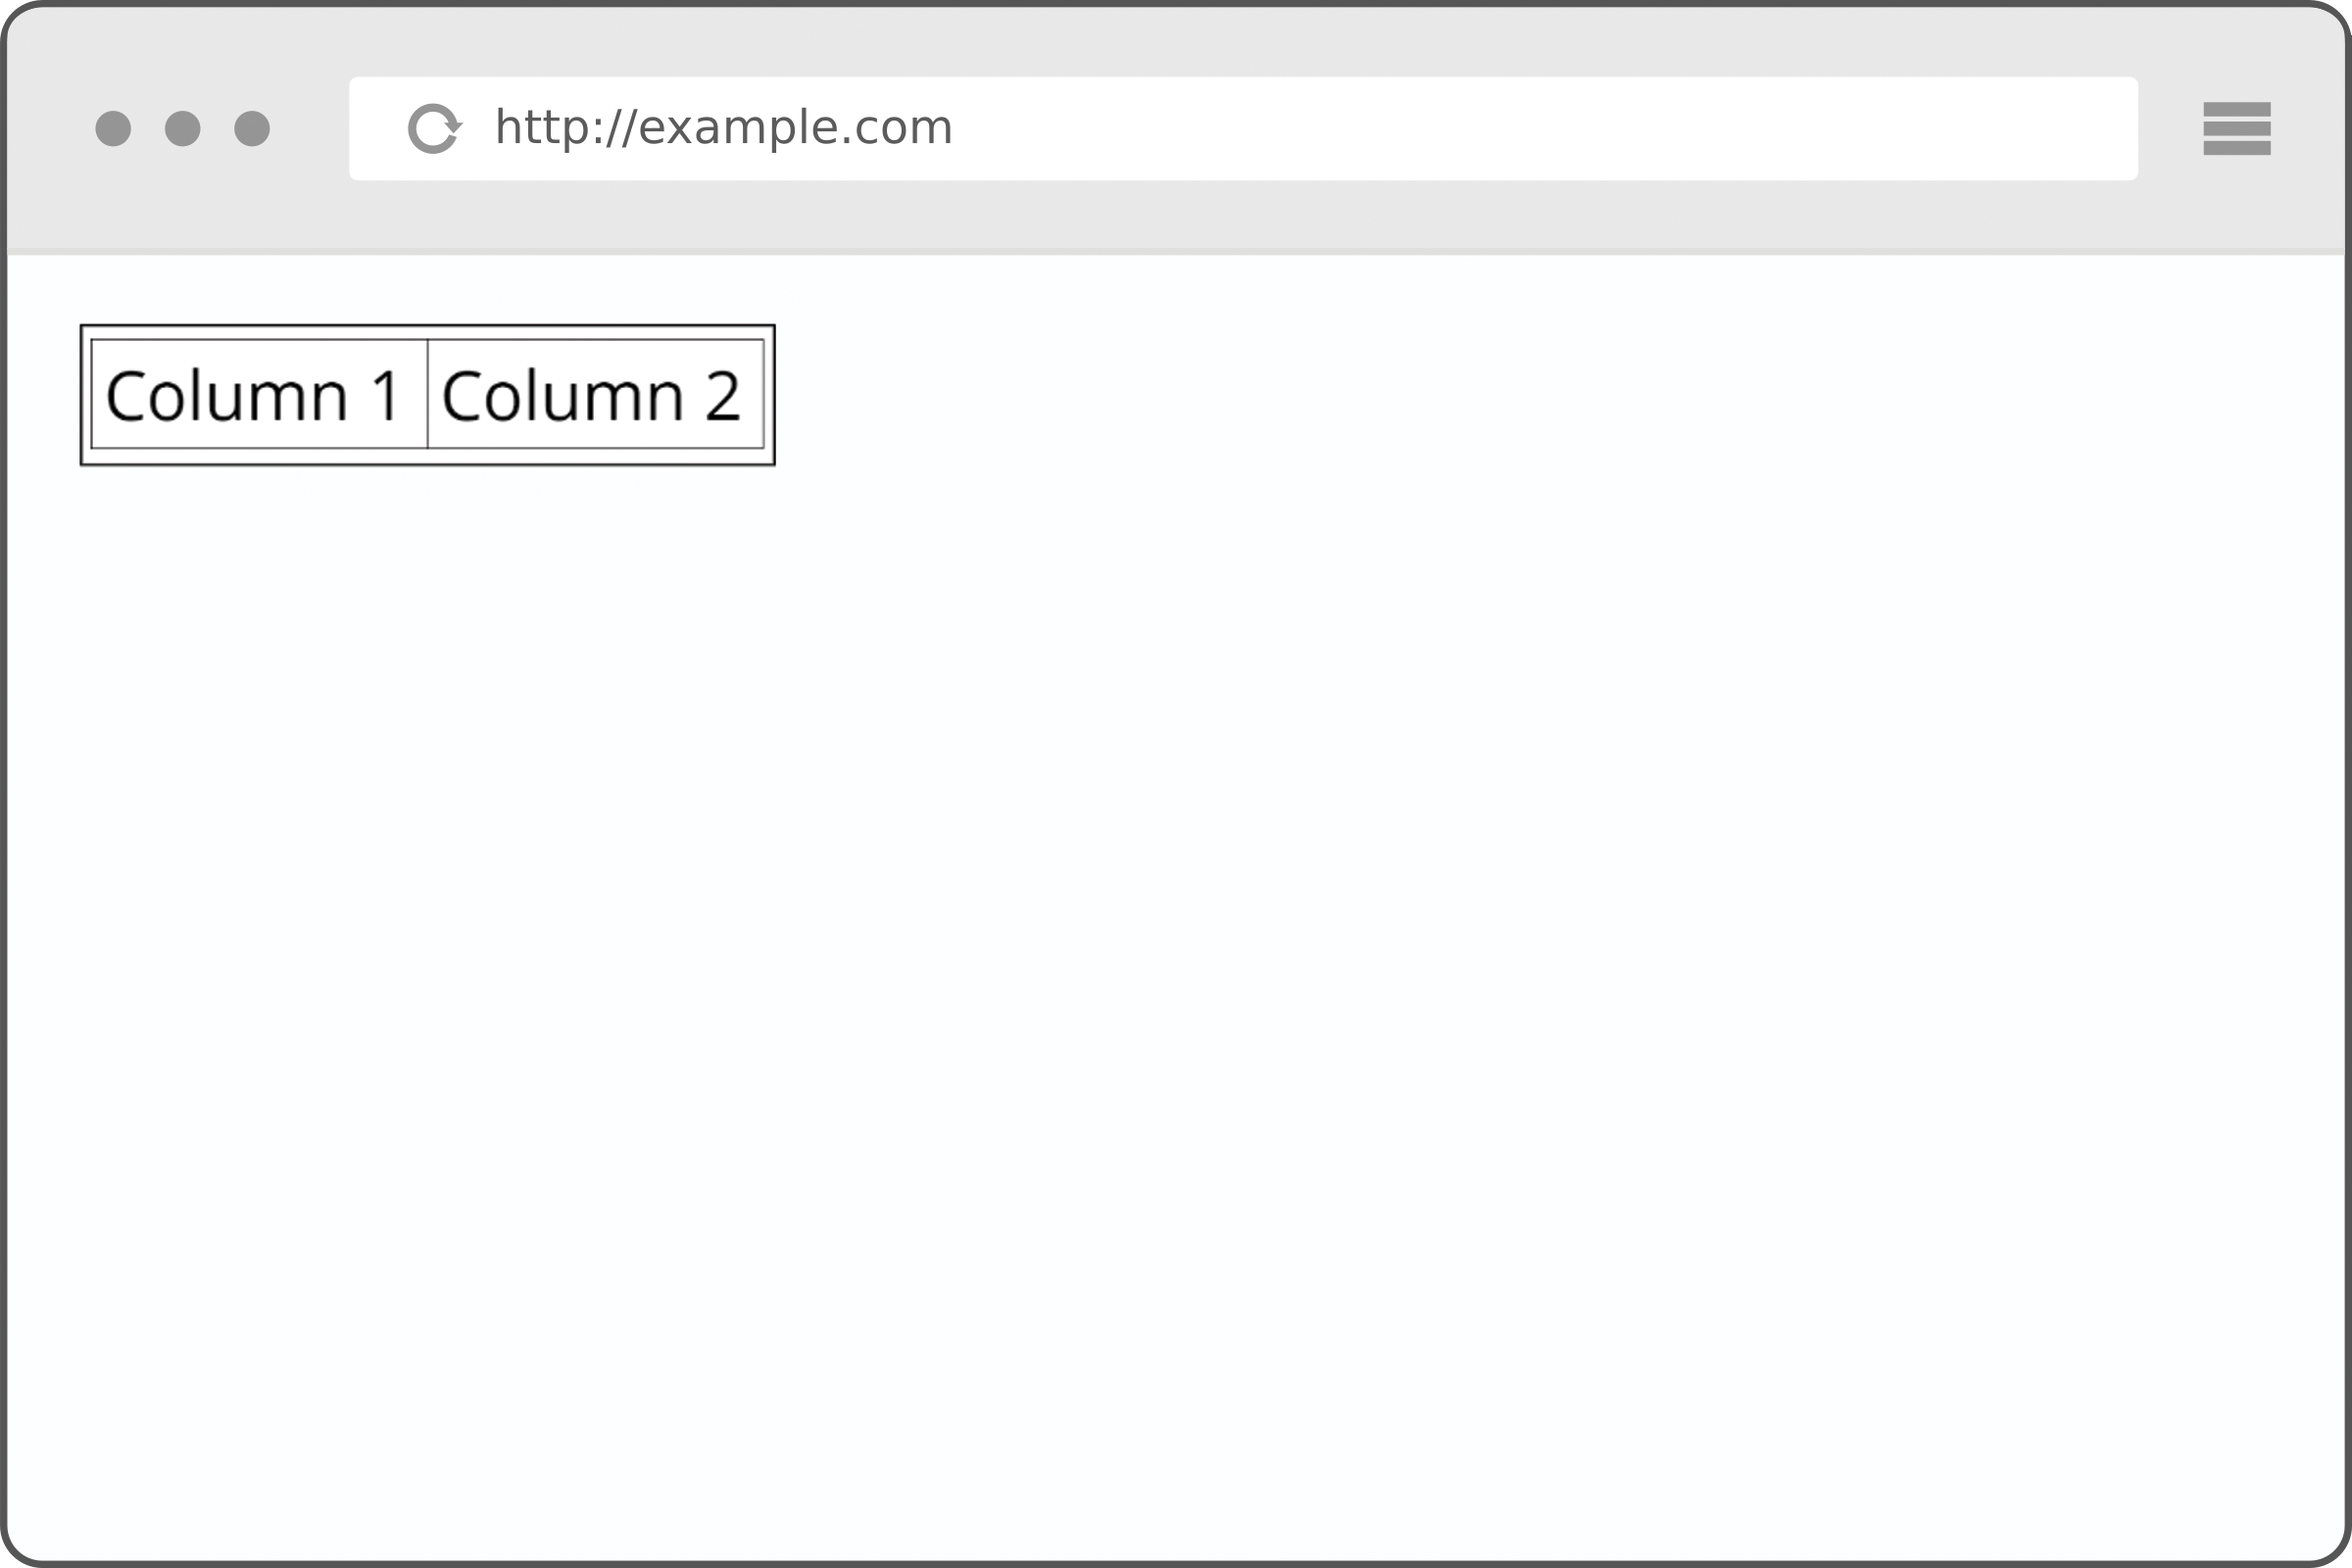
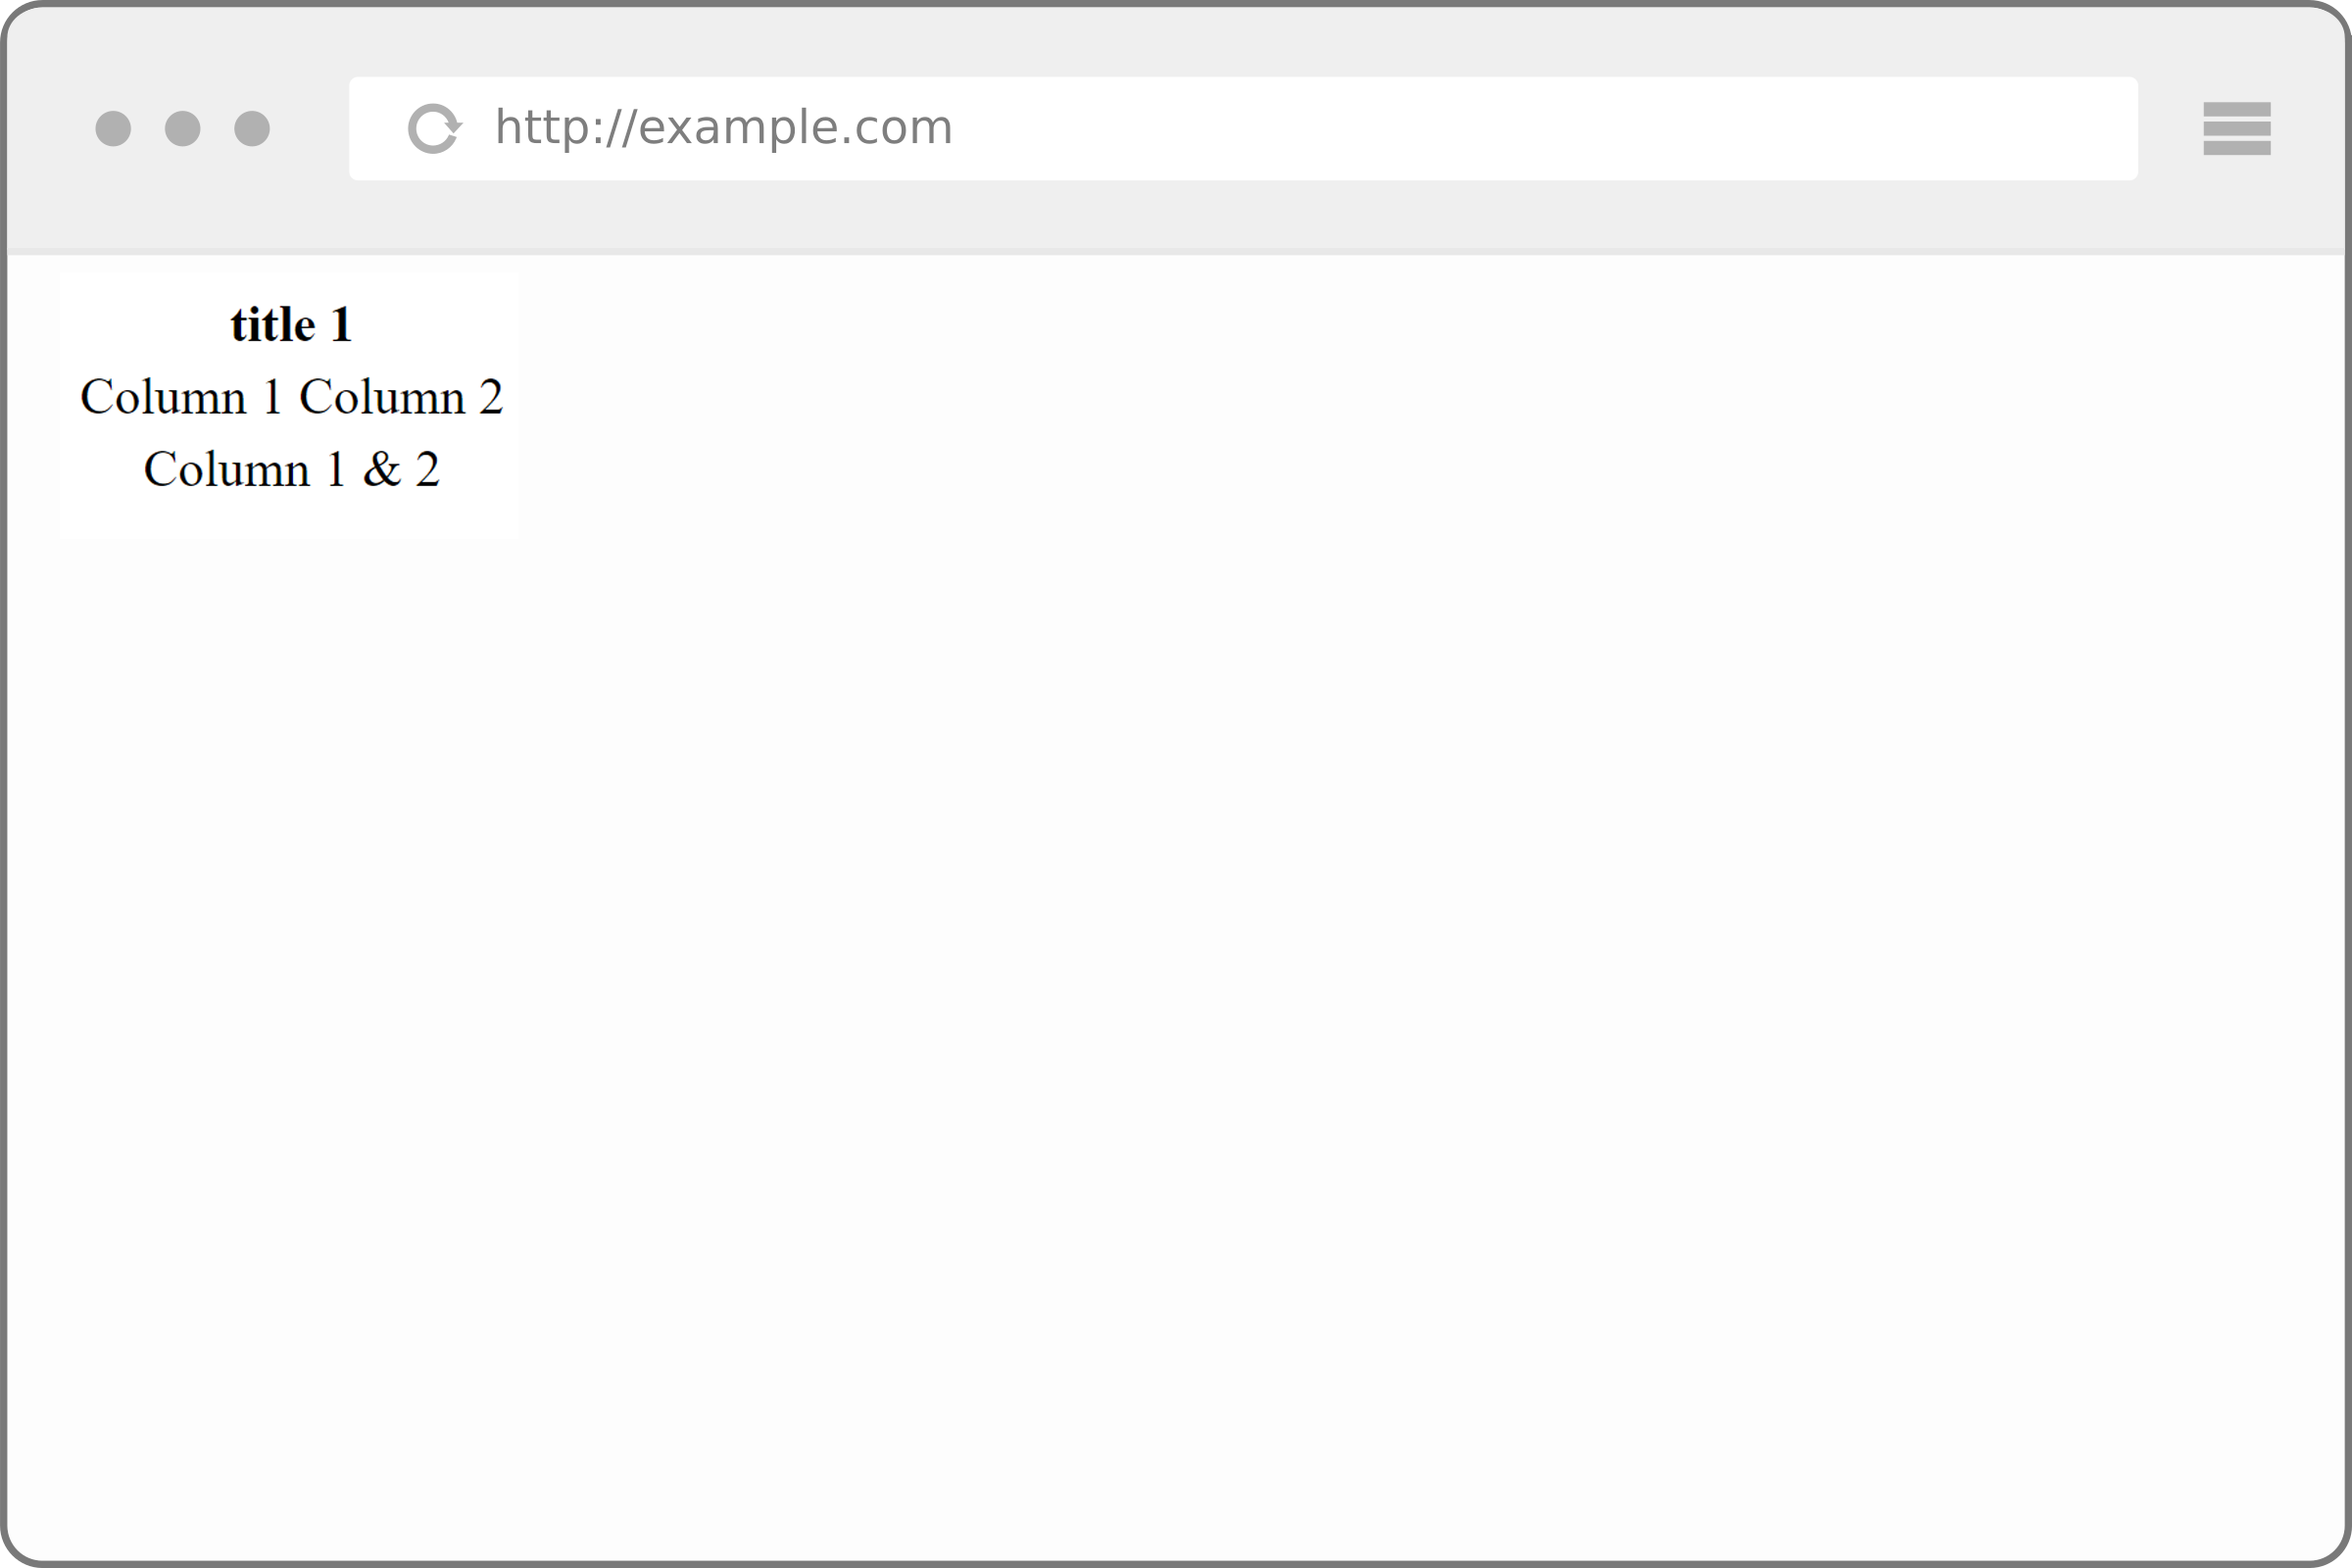
updates

diff --git a/demo/index.html b/demo/index.html
@@ -1,0 +1,23 @@
+<!doctype html>
+<html>
+	<head>
+		<meta charset="utf-8">
+		<title>HTML/CSS Workshop</title>
+	</head>
+	<body>
+		<h1 id="especial">Automóveis elétricos triunfarão e bem mais depressa do que se julga</h1>
+		
+		<img src="eletrico.jpg"/>
+
+		<div class="texto">
+			<p>As declarações do Ministro do Ambiente e da Transição Energética Matos Fernandes foram criticadas por alguns organismos, mas mereceram o apoio por parte de outros. A ACAP lamentou e criticou as palavras do Ministro referindo que referem “não têm qualquer correspondência com a realidade”.</p>
+
+			<p>A Associação de Utilizadores de Veículos Elétricos – UVE saudou as declarações do ministro.</p>
+		
+			<p>Num comunicado publicado no site oficial da UVE, a Associação “congratula-se com a visibilidade que o assunto está a merecer da comunicação social” e refere que os “automóveis elétricos triunfarão e bem mais depressa do que se julga” . No comunicado da UVE pode ler-se que a associação apoia as  “declarações do Ministro sobre o futuro próximo dos carros com motor de combustão interna, movidos a gasóleo, assim como a ascensão dos veículos elétricos, uma das formas da sociedade atual avançar para a descarbonização da economia, a eletrificação dos transportes e da mobilidade dos humanos, parte absolutamente necessária no combate atual às alterações climáticas e ao cumprimento das decisões da COP 21 tomadas em Paris e reforçadas na COP 24 em Katowice – Polónia, que Portugal subscreveu.</p>
+		
+			<p> A associação refere ainda que a alteração para a mobilidade elétrica “não será imediata, até pela simples razão de que não existem baterias suficientes, nem os fabricantes de automóveis têm capacidade para produzir e fornecer os automóveis elétricos que a crescente procura por parte dos cidadãos exige”.</p>		
+		</div>
+
+		</body>
+</html>

diff --git a/index.html b/index.html
@@ -154,6 +154,7 @@
 
 				<section>
 					<h1>HYPERLINKS</h1>
+					<h3>(ancor)</h3>
 					<br>
 					<h1 style="text-transform: lowercase;">&lt;a href="..."&gt; ... &lt;/a&gt;</h1>
 				</section>
@@ -225,12 +226,16 @@
 							    &lt;/head&gt;
 
 							    &lt;body&gt;
-							        &lt;table&gt;
-							           &lt;tr&gt;
-							              &lt;td&gt;Column 1&lt;/td&gt;
-							              &lt;td&gt;Column 2&lt;/td&gt;
-							           &lt;/tr&gt;
-							        &lt;/table&gt;
+								&lt;table&gt;
+								&lt;th&gt;title 1&lt;/th&gt;
+							        &lt;tr&gt;
+							            &lt;td&gt;Column 1&lt;/td&gt;
+							             &lt;td&gt;Column 2&lt;/td&gt;
+									&lt;/tr&gt;
+									&lt;tr&gt;
+							            &lt;td colspan="2"&gt;Column 1 & 2 &lt;/td&gt;
+							        &lt;/tr&gt;
+							    &lt;/table&gt;
 							    &lt;/body&gt;
 							&lt;/html&gt;
 						</code>

diff --git a/demo/estilos.css b/demo/estilos.css
@@ -1,5 +1,6 @@
 body{
-	background-color: #293d3d;
+	background-image: url("pattern.png");
+	background-repeat: repeat;
 }
 
 p {
@@ -11,16 +12,19 @@ p {
 h1 {
 	text-align: center;
 	font-size: 35px;
+	text-transform: uppercase;
 }
 
 img{
-	margin: 10px 50px 10px 20px;
-	float: right;
+	display: block;
+	margin: auto;
+	border-radius: 50%;
 }
 
 .texto{
 	font-family: "Arial", sans-serif;
 	color: white;
+	column-count: 3;
 }
 
 #especial{
